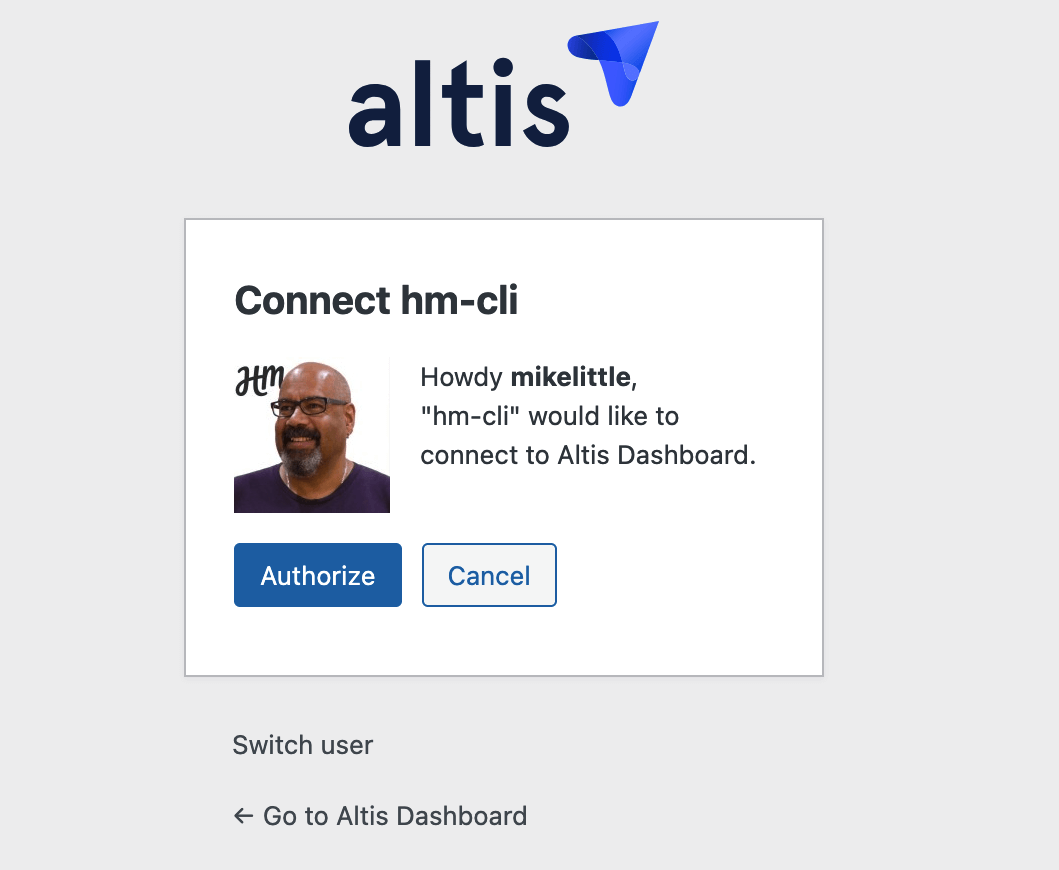
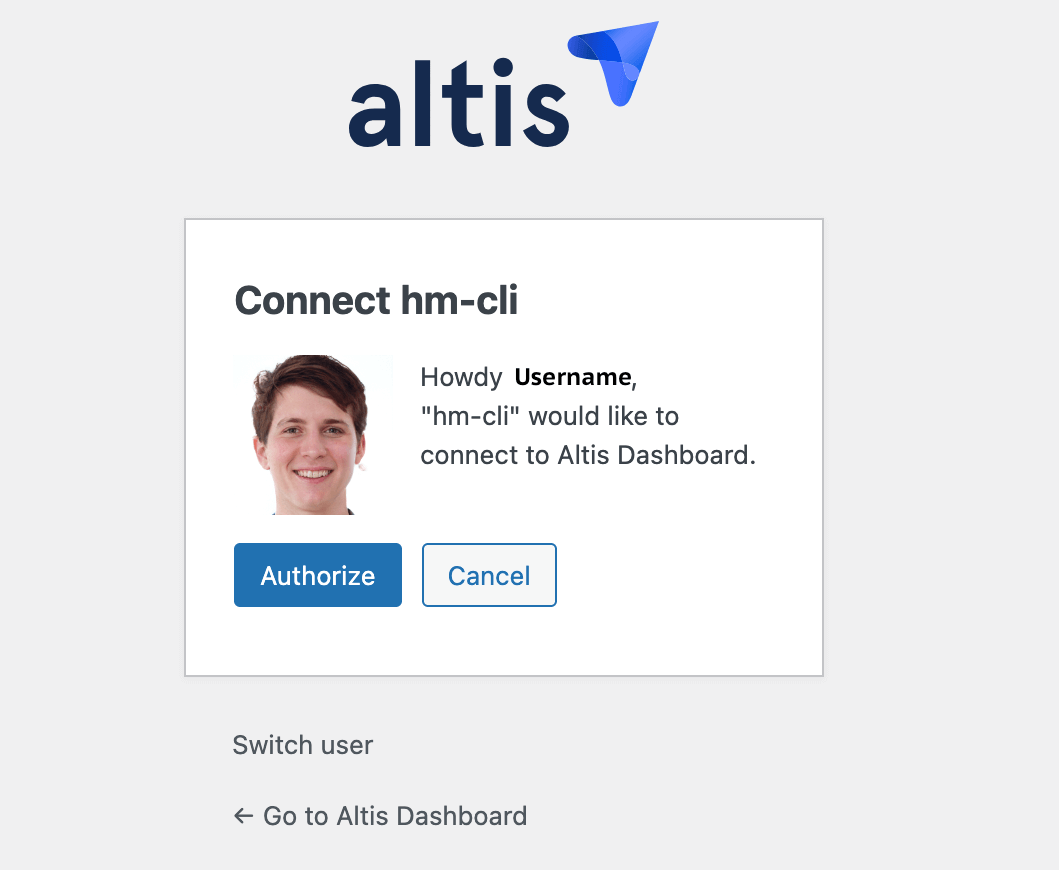
Updates after review.
Removed my name and face from the screenshot.

Changed region(s): [[0.2181, 0.4034, 0.3739, 0.5897], [0.4674, 0.4034, 0.5921, 0.4655], [0.5297, 0.031, 0.6232, 0.1241]]

diff --git a/docs/cli/README.md b/docs/cli/README.md
@@ -39,7 +39,7 @@ The following commands are available in the Altis CLI tool
 Each as one or more sub commands. Use `altis-cli help` to get the most up-to-date list of commands.
 
 ```sh
-$ bin/altis-cli  --help
+$ altis-cli  --help
 altis-cli <command>
 
 Commands:
@@ -67,7 +67,7 @@ Commands:
 The app caches a list of the stacks you have access to. This command clears that cache.
 
 ```sh
-$ bin/altis-cli cli clear-cache
+$ altis-cli cli clear-cache
 ✔ Cleared cache
 ```
 
@@ -164,13 +164,13 @@ Options:
 For example, to create a database only backup, you would run the following command:
 
 ```sh
-bin/altis-cli stack backup --database --no-downloads platform-test
+altis-cli stack backup --database --no-downloads platform-test
 
 Starting backup for platform-test...
 (node:72569) [DEP0040] DeprecationWarning: The `punycode` module is deprecated. Please use a userland alternative instead.
 (Use `node --trace-deprecation ...` to show where the warning was created)
 Backup started, resume later with...
-  hm stack backup platform-test --resume platform-test/backups:2025-02-10-11-33-07
+  altis-cli stack backup platform-test --resume platform-test/backups:2025-02-10-11-33-07
 
 Connected!
 Starting new backup.
@@ -196,7 +196,7 @@ the same backup.
 
 ```sh
 Backup started, resume later with...
-  hm stack backup platform-test --resume platform-test/backups:2025-02-10-11-33-07
+  altis-cli stack backup platform-test --resume platform-test/backups:2025-02-10-11-33-07
 ```
 
 ### Stack backups
@@ -204,7 +204,7 @@ Backup started, resume later with...
 This command lists all the backups saved against the named stack. For example:
 
 ```sh
-$ bin/altis-cli stack backups platform-test
+$ altis-cli stack backups platform-test
 ⠋ Loading backups for platform-test…
 ✔ Loading backups for platform-test…
 ? Select backup to download: (Use arrow keys)
@@ -222,8 +222,8 @@ Use your arrow keys to scroll through the backup names. It also displays the bac
 specified back up to your default `Downloads` directory.
 
 ```
-Downloading to /Users/mikelittle/Downloads/platform-test-2025-02-10-12-16-24
-✔ Downloaded. Copied /Users/mikelittle/Downloads/platform-test-2025-02-10-12-16-24 to clipboard.
+Downloading to /Users/username/Downloads/platform-test-2025-02-10-12-16-24
+✔ Downloaded. Copied /Users/username/Downloads/platform-test-2025-02-10-12-16-24 to clipboard.
 ```
 
 ### Stack deploy
@@ -231,7 +231,7 @@ Downloading to /Users/mikelittle/Downloads/platform-test-2025-02-10-12-16-24
 This command allows you to deploy (or redeploy) a previously build version of your application.
 
 ```sh
-$ bin/altis-cli stack deploy --help
+$ altis-cli stack deploy --help
 altis-cli stack deploy [stack]
 
 Deploy a given stack.
@@ -252,7 +252,7 @@ If the one you choose is not the latest build, it will inform you the stack is a
 deployed) and remind you to use the `--force` flag to deploy an older build.
 
 ```sh
-$ bin/altis-cli stack deploy platform-test
+$ altis-cli stack deploy platform-test
 ⠋ Loading builds for platform-test…
 ✔ Loading builds for platform-test…
 ? Select build to use: platform-test:7f6af7f7-5ee4-47d4-b130-c25e62ccdc13
@@ -268,7 +268,7 @@ Note: If a build failed, Altis will not be able to find a docker image of that b
 Once you select the build to deploy, it works through the deployment process, showing you the progress as it goes.
 
 ```sh
-$ bin/altis-cli stack deploy platform-test --force
+$ altis-cli stack deploy platform-test --force
 stty: 'standard input': unable to perform all requested operations
 ⠋ Loading builds for platform-test…
 ✔ Loading builds for platform-test…
@@ -315,7 +315,7 @@ The `stack info` command will list information about the specified stack. This i
 associated with the stack, infrastructure, database, and web server information.
 
 ```sh
-$ bin/altis-cli stack info platform-test
+$ altis-cli stack info platform-test
 ⠋ Fetching information for platform-test
 
 platform-test
@@ -356,7 +356,7 @@ Running this command will checkout the code for the stack (using the information
 install`, once the code is checked out.
 
 ```sh
-$ ../bin/altis-cli stack local-setup platform-test
+$ altis-cli stack local-setup platform-test
 ⠋ Loading repository for platform-test…(node:48439) [DEP0040] DeprecationWarning: The `punycode` module is deprecated. Please use a userland alternative instead.
 (Use `node --trace-deprecation ...` to show where the warning was created)
 ✔ Loading repository for platform-test…
@@ -384,7 +384,7 @@ The php-logs command will show the php logs for the specified stack. It has a nu
 will be displayed.
 
 ```sh
-$ bin/altis-cli stack php-logs tail platform-test
+$ altis-cli stack php-logs tail platform-test
 altis-cli stack php-logs [stack]
 
 Show PHP logs for a stack.
@@ -401,19 +401,19 @@ Options:
 For example, to specify only the log files after a certain date, you can call it like this:
 
 ```sh
-bin/altis-cli stack php-logs --after 2025/02/04 platform-test
+altis-cli stack php-logs --after 2025/02/04 platform-test
 ```
 
 You can combine the before and after parameters to limit the logs to a specific range of days.
 
 ```sh
-bin/altis-cli stack php-logs --after 2025/01/30 --before 2025/02/01 platform-test
+altis-cli stack php-logs --after 2025/01/30 --before 2025/02/01 platform-test
 ```
 
 You can also specify a time as part of the before and after parameters
 
 ```sh
-bin/altis-cli stack php-logs --after 2025/01/28T10:17 --before 2025/01/28T10:25 platform-test
+altis-cli stack php-logs --after 2025/01/28T10:17 --before 2025/01/28T10:25 platform-test
 ```
 
 Using the tail parameter will give you a live feed of logs entries as they are created. Use `CTRL+C` to exit the feed.
@@ -421,7 +421,7 @@ Using the tail parameter will give you a live feed of logs entries as they are c
 ### Stack scp
 
 ```sh
-$ bin/altis-cli stack scp --help
+$ altis-cli stack scp --help
 altis-cli stack scp <src> <dest>
 
 Copy a file to/from a stack. Remote src/dest are determined by a colon in the
@@ -436,7 +436,7 @@ Options:
 This command allows you to copy a file from your local to the stack.
 
 ```sh
-$ bin/altis-cli stack scp ./Cheese-DSC05391.jpg platform-test:/tmp/Cheese-DSC05391.jpg
+$ altis-cli stack scp ./Cheese-DSC05391.jpg platform-test:/tmp/Cheese-DSC05391.jpg
 stty: 'standard input': unable to perform all requested operations
 ⠋ Connecting to platform-test
 ✔ Cheese-DSC05391.jpg          [============================================>] 100.0% (273.86KB/273.86KB, 365.15KB/s)
@@ -445,7 +445,7 @@ stty: 'standard input': unable to perform all requested operations
 Or from the stack to your local device
 
 ```sh
-$ bin/altis-cli stack scp platform-test:content/themes/twentytwentytwo/assets/images/ducks.jpg ducks.jpg
+$ altis-cli stack scp platform-test:content/themes/twentytwentytwo/assets/images/ducks.jpg ducks.jpg
 ⠋ Connecting to platform-test
 ✔ ducks.jpg          [<============================================] 100.0% (373.85KB/364.27KB, 221.54KB/s)
 ```
